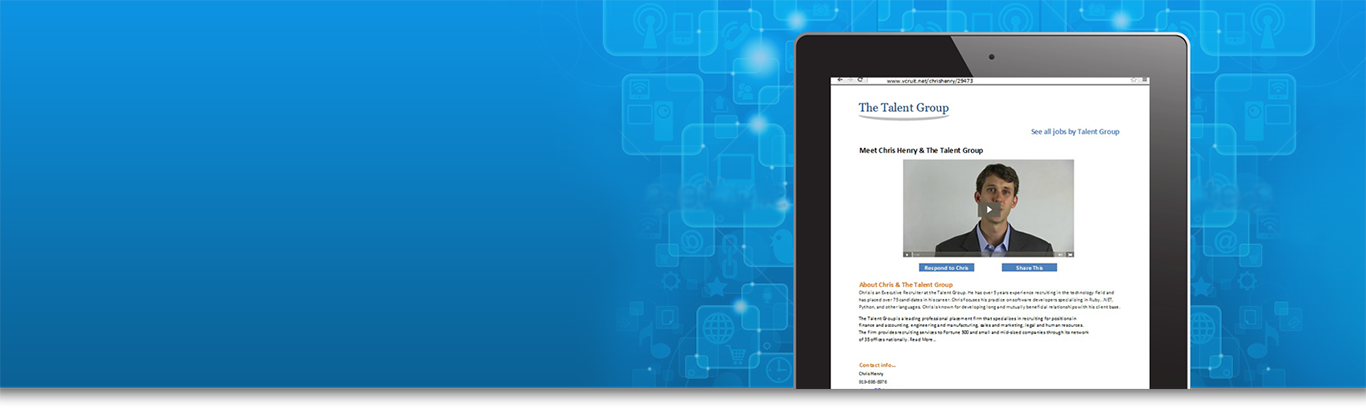
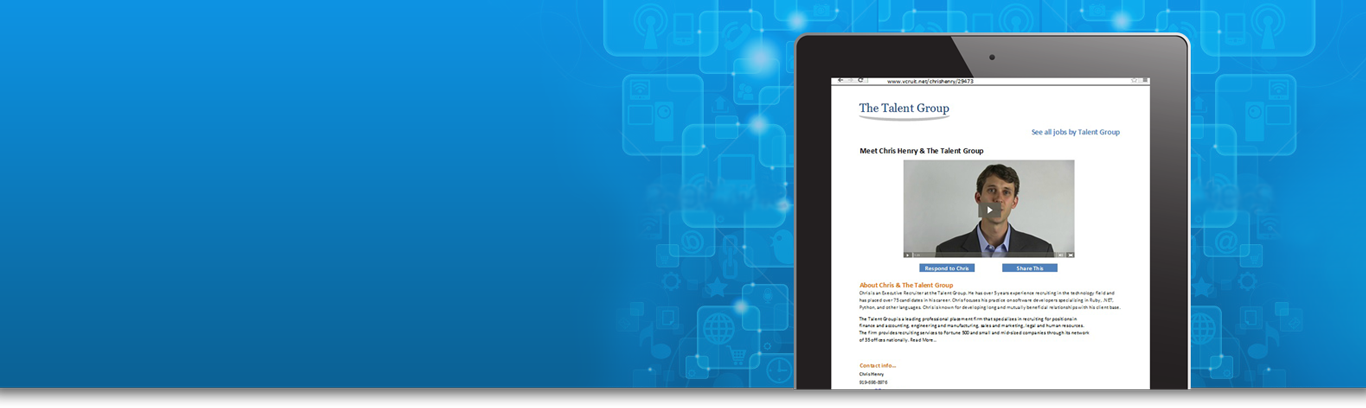
change width of home page to stretch 100%

diff --git a/app/assets/stylesheets/static_pages.css.scss b/app/assets/stylesheets/static_pages.css.scss
@@ -4,7 +4,7 @@
 
 #hero-wrapper{
   position: relative;
-  width: 1366px;
+  width: 100%;
   height: 409px;
 }
 
@@ -12,6 +12,8 @@
   position: absolute;
   left: 0;
   top: 0;
+  width: 100%;
+  height: 409px;
 }
 
 .main-caption {
@@ -79,6 +81,7 @@
     padding: 25px 20px 0px 20px;
     margin: 0;
     text-align: center;
+    vertical-align: text-top;
   }
 }
 
@@ -108,7 +111,7 @@
     display: inline-block;
     padding: 25px 20px 20px 20px;
     margin: 0;
-    text-align: center;
+    vertical-align: text-top;
   }
   
   .icon-arrow-right {
@@ -116,13 +119,13 @@
   	zoom: 2;
     -moz-transform: scale(3);  /* Firefox */
   	float:left;
-  	margin:0px 10px 20px 20px;
+  	margin:0px 10px 50px 20px;
   }
 }
 
 .section3{
   display: block;
-  padding: 50px 0px;
+  padding: 50px 100px;
   
   
   h2 {

diff --git a/app/assets/stylesheets/application.css.scss b/app/assets/stylesheets/application.css.scss
@@ -24,7 +24,8 @@ body {
 }
 
 .wrapper {
-  width: 1366px;
+  width: 100%;
+  min-width: 1366px;
   margin: 0px auto 0px auto;
   background-color: #FFF;
 }
@@ -49,7 +50,7 @@ header {
   float: right;
   display: inline-block;
   padding-top: 60px;
-  padding-right: 150px;
+  padding-right: 200px;
 }
 
 #nav-container {
